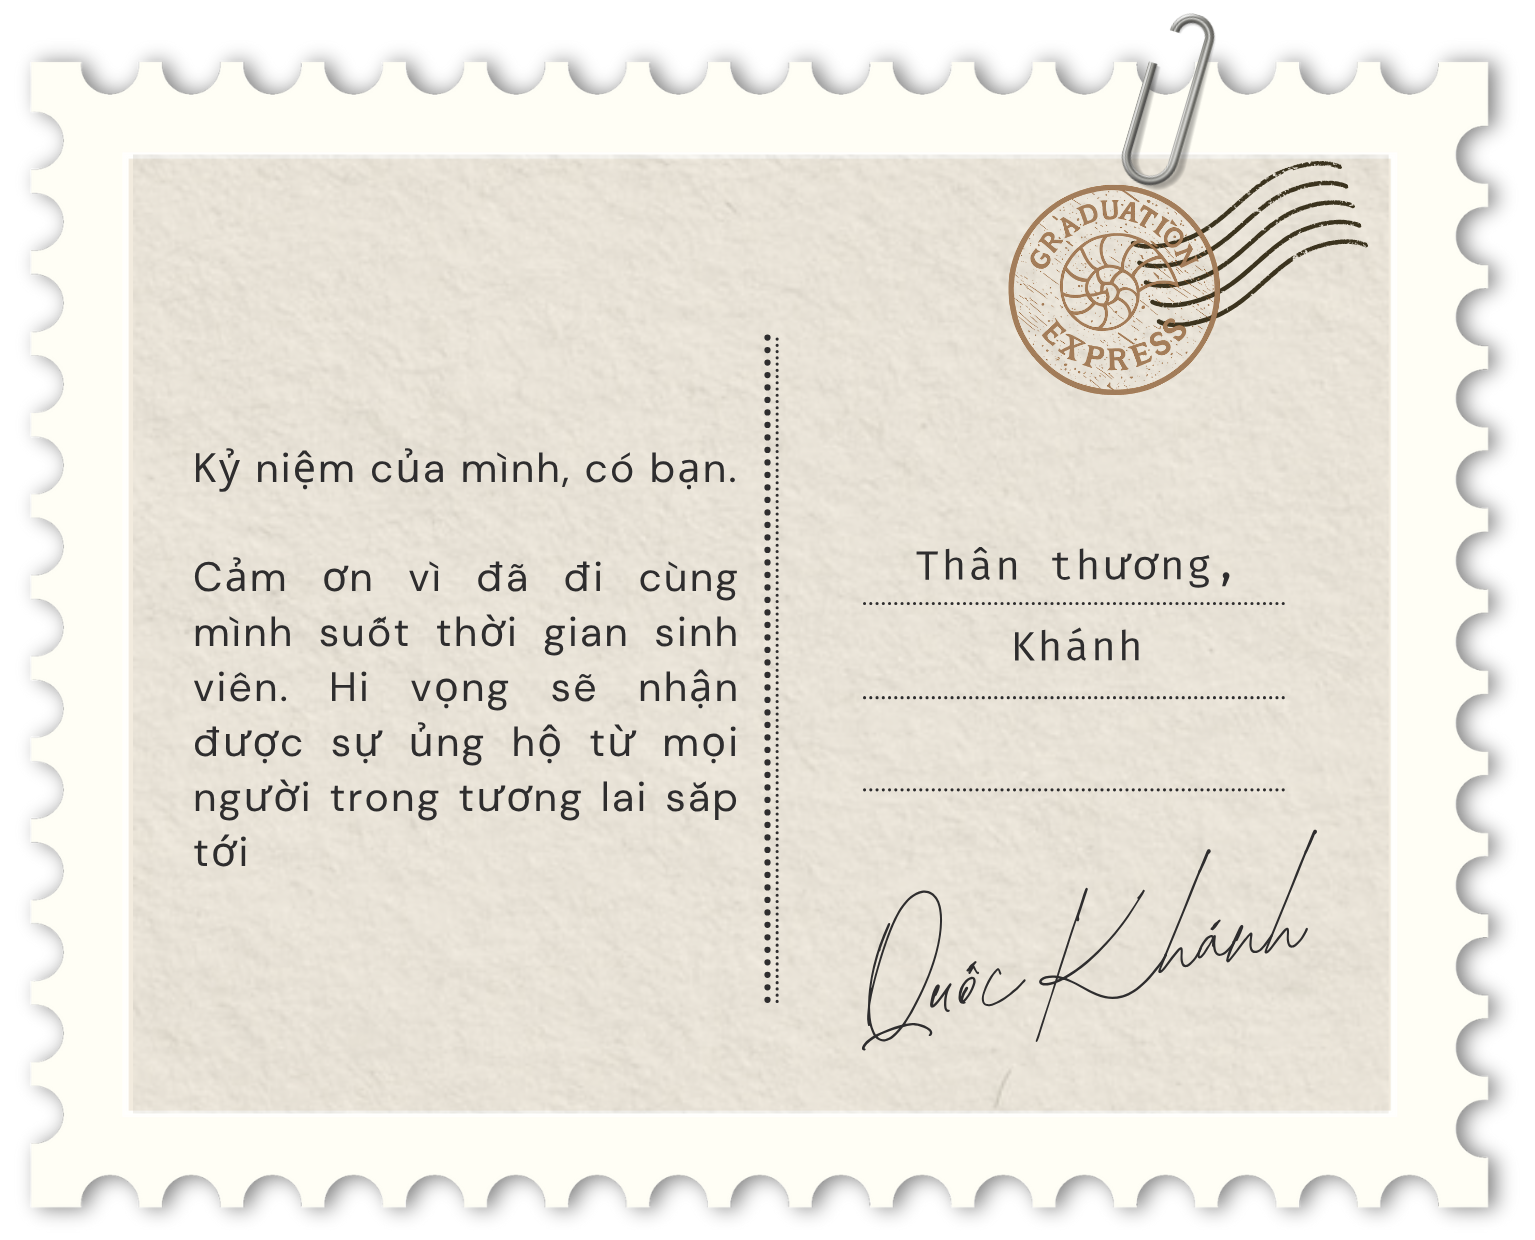
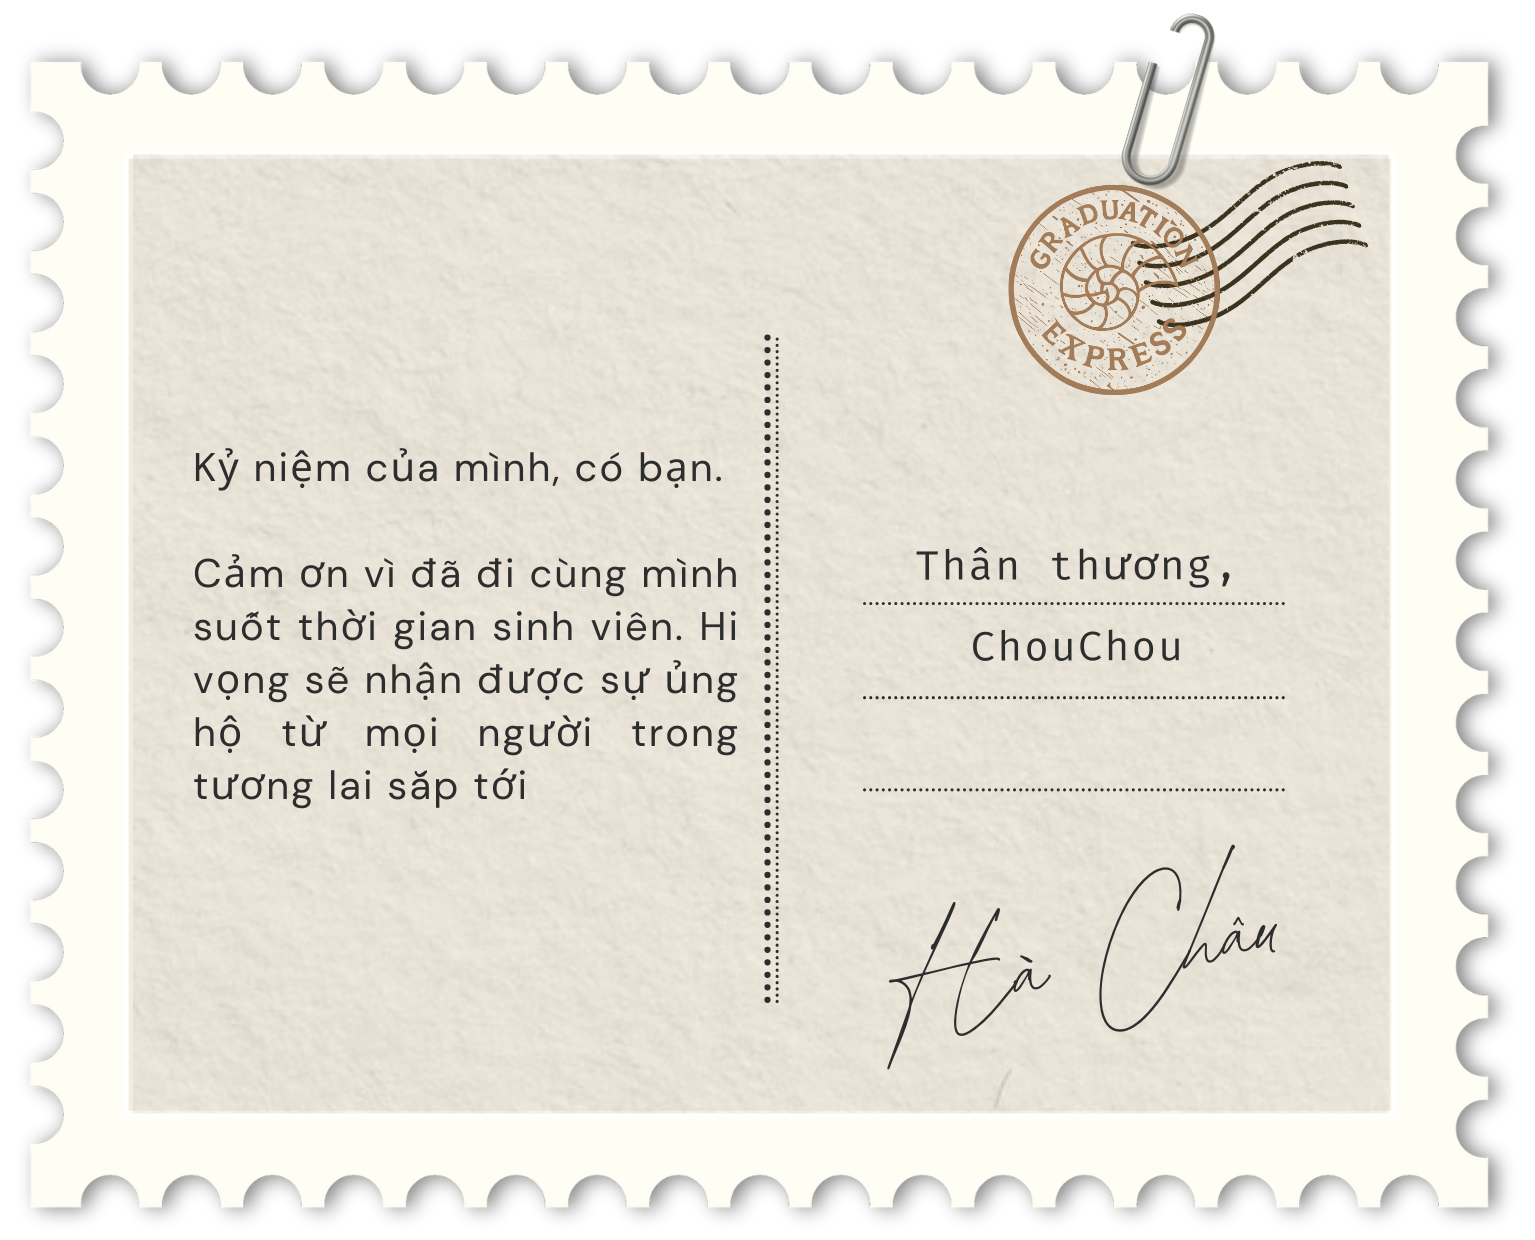
chouchou

diff --git a/app/page.tsx b/app/page.tsx
@@ -14,29 +14,29 @@ import { useRotateReveal } from '~/hooks/use-rotate-reveal'
 
 const CONTACT_LINKS = [
   {
-    label: 'Directions to School',
-    href: 'https://maps.app.goo.gl/',
-    ariaLabel: 'Open Google Maps directions to the ceremony',
+    label: 'Đường đến trường',
+    href: 'https://maps.app.goo.gl/aZQVLJVMKvztEe6r5?g_st=ipc',
+    ariaLabel: 'Mở Google Maps chỉ đường đến buổi lễ',
     borderSecondary: false,
     isExternal: true,
   },
   {
     label: 'Facebook',
-    href: 'https://facebook.com/',
+    href: 'https://www.facebook.com/chau.chiky',
     ariaLabel: 'Open Facebook in a new tab',
     borderSecondary: true,
     isExternal: true,
   },
   {
-    label: '+84 (00) 000 0000',
-    href: '#',
-    ariaLabel: 'Call',
+    label: '091 945 2518',
+    href: 'tel:0919452518',
+    ariaLabel: 'Gọi cho Châu',
     borderSecondary: true,
     isExternal: false,
   },
 ] as const
 
-const TARGET_DATE = new Date('2026-11-21T09:00:00+07:00')
+const TARGET_DATE = new Date('2025-12-19T09:00:00+07:00')
 
 export default function Home() {
   const [isPreloaderComplete, setIsPreloaderComplete] = useState(false)
@@ -84,7 +84,7 @@ export default function Home() {
     >
       <section ref={sectionRef} className="relative coi-grid!">
         <h1 className="col-span-full coi-pt-20 bg-secondary coi-pl-4 dt:coi-pl-10 uppercase home-title text-primary relative z-10 overflow-hidden">
-          <RotateRevealText>Final Chapter!</RotateRevealText>
+          <RotateRevealText>Chương Cuối !</RotateRevealText>
         </h1>
         <div className="col-span-full coi-py-10 dt:coi-py-10 bg-contrast  border-solid coi-border-t-px coi-border-b-px border-secondary [border-top-style:solid] [border-bottom-style:solid] relative overflow-hidden">
           <CountdownBanner
@@ -95,7 +95,7 @@ export default function Home() {
 
         <div className="relative mobile-only col-span-full coi-mt-24">
           <h1 className="uppercase h2 font-chalmers">
-            <RotateRevealText>Graduation</RotateRevealText>
+            <RotateRevealText>Lễ Tốt Nghiệp</RotateRevealText>
           </h1>
           <div className="-z-1 absolute top-0 left-0 w-full h-full">
             <div className="dt:coi-w-480 coi-w-342 coi-h-px bg-contrast/20 dt:coi-mt-40 coi-mt-50 relative" />
@@ -105,7 +105,7 @@ export default function Home() {
         <div className="col-span-full dt:col-start-1 dt:col-span-3 coi-mt-30 dt:coi-border-r-px dt:border-secondary dt:[border-right-style:solid] order-2 dt:order-0">
           <div className="relative desktop-only">
             <h1 className="uppercase h2 coi-mb-24 font-chalmers">
-              <RotateRevealText>Graduation</RotateRevealText>
+              <RotateRevealText>Lễ Tốt Nghiệp</RotateRevealText>
             </h1>
             <div className="-z-1 absolute top-0 left-0 w-full h-full">
               <div className="dt:coi-w-480 coi-w-342 coi-h-px bg-contrast/20 dt:coi-mt-40 coi-mt-50 relative" />
@@ -123,7 +123,7 @@ export default function Home() {
             />
           </div>
           <p className="cta font-chalmers uppercase coi-mt-30 flex items-center gap-10">
-            <RotateRevealText>✦✦✦ Find me here</RotateRevealText>
+            <RotateRevealText>✦✦✦ Tìm mình ở đây</RotateRevealText>
           </p>
           <div className="flex flex-col dt:coi-gap-30 coi-gap-15 coi-mt-32 uppercase">
             {CONTACT_LINKS.map(
@@ -160,7 +160,7 @@ export default function Home() {
             )}
           </div>
         </div>
-        <div className="col-span-full dt:coi-ml-20 coi-ml-0 dt:col-start-4 dt:col-span-5 coi-mt-30 order-1 dt:order-0">
+        <div className="col-span-full dt:coi-ml-20 coi-ml-0 dt:col-start-4 dt:col-span-5 coi-mt-30 order-1 dt:order-0 text-center">
           <div>
             <Image
               src="/SE170317-1.png"
@@ -177,31 +177,21 @@ export default function Home() {
               as="h2"
               className="text-secondary coi-pt-30 dt:coi-pt-50 uppercase h1"
             >
-              Friday, Nov 21, 2025
+              Thứ 6, Ngày 19/12/2025
             </RotateRevealText>
             <RotateRevealText
               as="h2"
               className="text-secondary coi-pt-30 dt:coi-pt-45 uppercase h1"
             >
-              From{' '}
               <span className="bg-contrast text-primary coi-px-12 coi-rounded-10">
-                9:00 - 10:30
+                15:00 - 17:30
               </span>
             </RotateRevealText>
             <RotateRevealText
               as="h2"
               className="text-secondary coi-pt-30 dt:coi-pt-45 uppercase h1"
             >
-              Or{' '}
-              <span className="bg-contrast text-primary coi-px-12 coi-rounded-10">
-                13:30 - 15:00
-              </span>
-            </RotateRevealText>
-            <RotateRevealText
-              as="h2"
-              className="text-secondary coi-pt-30 dt:coi-pt-45 uppercase h1 -coi-tracking-px"
-            >
-              At Your University
+              Tại Trường Đại học Tài chính - Marketing
             </RotateRevealText>
             <div className="-z-1 absolute top-0 left-0 w-full h-full">
               <div className="w-full coi-h-px bg-contrast/20 coi-mt-70 dt:coi-mt-105 relative" />
@@ -209,13 +199,13 @@ export default function Home() {
               <div className="w-full coi-h-px bg-contrast/20 coi-mt-76 dt:coi-mt-120 relative" />
               <div className="w-full coi-h-px bg-contrast/20 coi-mt-76 dt:coi-mt-120 relative" />
             </div>
-            <h1 className="col-start-1 col-span-4 dt:col-start-1 dt:col-span-6 coi-pt-10 dt:coi-pt-50 coi-mt-30 bg-secondary uppercase coi-text-60 dt:coi-text-160 home-title text-primary relative order-3 dt:order-0 mobile-only">
-              <RotateRevealText>Your Name</RotateRevealText>
+            <h1 className="col-start-1 col-span-4 dt:col-start-1 dt:col-span-6 coi-pt-10 dt:coi-pt-50 coi-mt-30 bg-secondary uppercase coi-text-78 dt:coi-text-160 home-title text-primary relative order-3 dt:order-0 mobile-only">
+              <RotateRevealText>Hà Châu</RotateRevealText>
             </h1>
           </div>
         </div>
-        <h1 className="col-start-1 col-span-4 dt:col-start-1 dt:col-span-6 coi-pt-10 dt:coi-pt-50 coi-mt-30 bg-secondary uppercase coi-text-53 dt:coi-text-182 home-title text-primary relative order-3 dt:order-0 coi-pl-6 desktop-only">
-          <RotateRevealText>Your Name</RotateRevealText>
+        <h1 className="col-start-1 col-span-4 dt:col-start-1 dt:col-span-6 coi-pt-10 dt:coi-pt-50 coi-mt-30 bg-secondary uppercase coi-text-73 dt:coi-text-238 home-title text-primary relative order-3 dt:order-0 coi-pl-6 desktop-only">
+          <RotateRevealText>Hà Châu</RotateRevealText>
         </h1>
         <div className="col-span-full dt:col-start-7 dt:col-span-2 coi-mt-20 order-3 dt:order-0 coi-ml-21 dt:coi-ml-0">
           <Image

diff --git a/components/countdown-banner/index.tsx b/components/countdown-banner/index.tsx
@@ -66,28 +66,28 @@ export function CountdownBanner({
       <div className="col-start-1 flex flex-col coi-gap-10">
         <RotateRevealText as="div" className="text-primary uppercase time">
           {formatNumber(timeLeft.days)}
-          <span className="text-primary/40">Days</span>
+          <span className="text-primary/40">Ngày</span>
         </RotateRevealText>
       </div>
 
       <div className="dt:col-start-3 col-start-2 dt:items-end flex flex-col coi-gap-10">
         <RotateRevealText as="div" className="text-primary uppercase time">
           {formatNumber(timeLeft.hours)}
-          <span className="text-primary/40">Hours</span>
+          <span className="text-primary/40">Giờ</span>
         </RotateRevealText>
       </div>
 
       <div className="col-start-3 dt:col-start-6 flex flex-col coi-gap-10 items-center">
         <RotateRevealText as="div" className="text-primary uppercase time">
           {formatNumber(timeLeft.minutes)}
-          <span className="text-primary/40">Minutes</span>
+          <span className="text-primary/40">Phút</span>
         </RotateRevealText>
       </div>
 
       <div className="col-start-4 dt:col-start-8 dt:justify-self-end justify-self-end coi-gap-10">
         <RotateRevealText as="div" className="text-primary uppercase time">
           {formatNumber(timeLeft.seconds)}
-          <span className="text-primary/40">Seconds</span>
+          <span className="text-primary/40">Giây</span>
         </RotateRevealText>
       </div>
     </div>

diff --git a/styles/css/tailwind.css b/styles/css/tailwind.css
@@ -73,8 +73,8 @@
 	font-weight: 400;
 	line-height: 120%;
 	letter-spacing: .0em;
-	font-size: calc(((42 * 100) / var(--device-width)) * 1vw);
-	@variant dt { font-size: calc(((173 * 100) / var(--device-width)) * 1vw); }
+	font-size: calc(((48 * 100) / var(--device-width)) * 1vw);
+	@variant dt { font-size: calc(((199 * 100) / var(--device-width)) * 1vw); }
 }
 @utility caption {
   font-family: var(--next-font-mono);
@@ -115,8 +115,8 @@
 	letter-spacing: 0.03em;
 	@variant dt { letter-spacing: 0.015em; }
 	font-feature-settings: "ss04";
-	font-size: calc(((50 * 100) / var(--device-width)) * 1vw);
-	@variant dt { font-size: calc(((72 * 100) / var(--device-width)) * 1vw); }
+	font-size: calc(((43 * 100) / var(--device-width)) * 1vw);
+	@variant dt { font-size: calc(((67 * 100) / var(--device-width)) * 1vw); }
 }
 @utility contact {
   font-family: var(--next-font-mono);

diff --git a/styles/typography.ts b/styles/typography.ts
@@ -12,7 +12,7 @@ const typography: TypeStyles = {
     'font-weight': 400,
     'line-height': '120%',
     'letter-spacing': '.0em',
-    'font-size': { mobile: 42, desktop: 173 },
+    'font-size': { mobile: 48, desktop: 199 },
   },
   caption: {
     'font-family': `var(${fonts.mono})`,
@@ -46,7 +46,7 @@ const typography: TypeStyles = {
     'line-height': { mobile: '100%', desktop: '95%' },
     'letter-spacing': { mobile: '0.03em', desktop: '0.015em' },
     'font-feature-settings': `"ss04"`,
-    'font-size': { mobile: 50, desktop: 72 },
+    'font-size': { mobile: 43, desktop: 67 },
   },
   contact: {
     'font-family': `var(${fonts.mono})`,

diff --git a/app/layout.tsx b/app/layout.tsx
@@ -8,8 +8,8 @@ import '~/styles/css/index.css'
 import { fontsVariable } from '~/styles/fonts'
 
 const APP_NAME = AppData.name
-const APP_DEFAULT_TITLE = 'Graduation Ceremony'
-const APP_TITLE_TEMPLATE = '%s - Graduation Ceremony'
+const APP_DEFAULT_TITLE = 'Lễ Tốt Nghiệp của Châu'
+const APP_TITLE_TEMPLATE = '%s - Lễ Tốt Nghiệp của Châu'
 const APP_DESCRIPTION = AppData.description
 const APP_BASE_URL =
   process.env.NEXT_PUBLIC_BASE_URL ?? 'https://localhost:3000'

diff --git a/app/manifest.ts b/app/manifest.ts
@@ -15,7 +15,7 @@ export default function manifest(): MetadataRoute.Manifest {
         type: 'image/png',
       },
     ],
-    name: 'Graduation Ceremony',
+    name: 'Lễ Tốt Nghiệp của Châu',
     description: AppData.description,
     start_url: '/',
     theme_color: '#181423',
